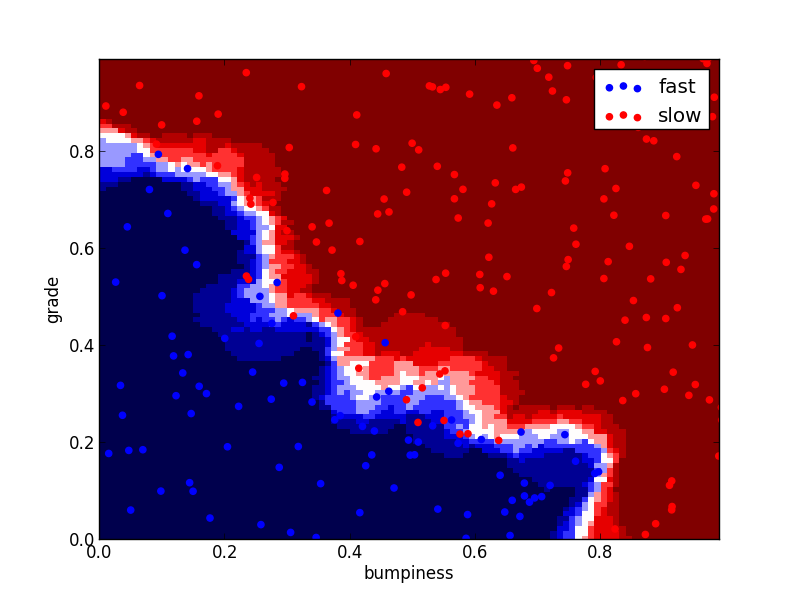
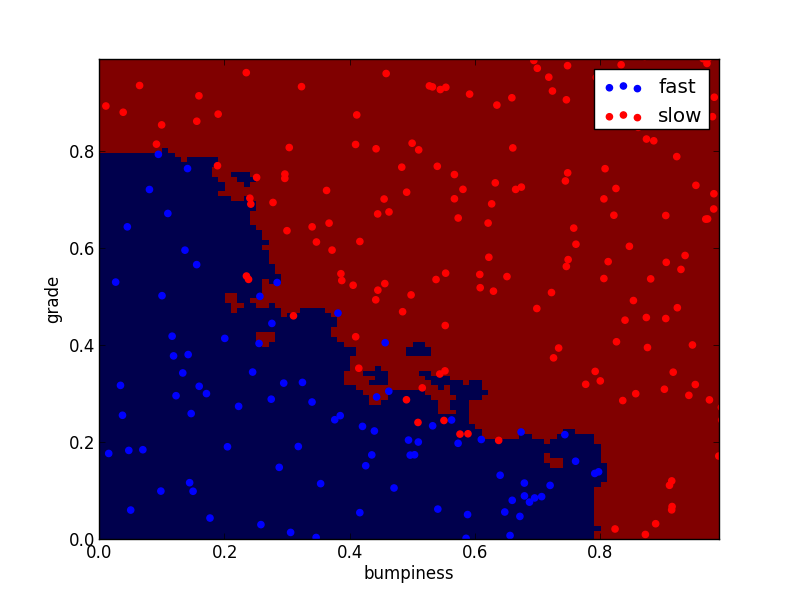
modified

Changed region(s): [[0.125, 0.18, 0.7812, 0.9]]

diff --git a/ud120-projects/final_project/poi_id.py b/ud120-projects/final_project/poi_id.py
@@ -20,7 +20,8 @@ with open("final_project_dataset.pkl", "r") as data_file:
 ### Task 3: Create new feature(s)
 ### Store to my_dataset for easy export below.
 my_dataset = data_dict
-
+import pprint
+pprint.pprint (my_dataset)
 ### Extract features and labels from dataset for local testing
 data = featureFormat(my_dataset, features_list, sort_keys = True)
 labels, features = targetFeatureSplit(data)

diff --git a/ud120-projects/choose_your_own/your_algorithm.py b/ud120-projects/choose_your_own/your_algorithm.py
@@ -33,7 +33,7 @@ plt.show()
 
 from sklearn.neighbors import KNeighborsRegressor
 
-clf = KNeighborsRegressor(n_neighbors=10)
+clf = KNeighborsRegressor(n_neighbors=1)
 clf.fit(features_train, labels_train)
 pred = clf.predict(features_test)
 
